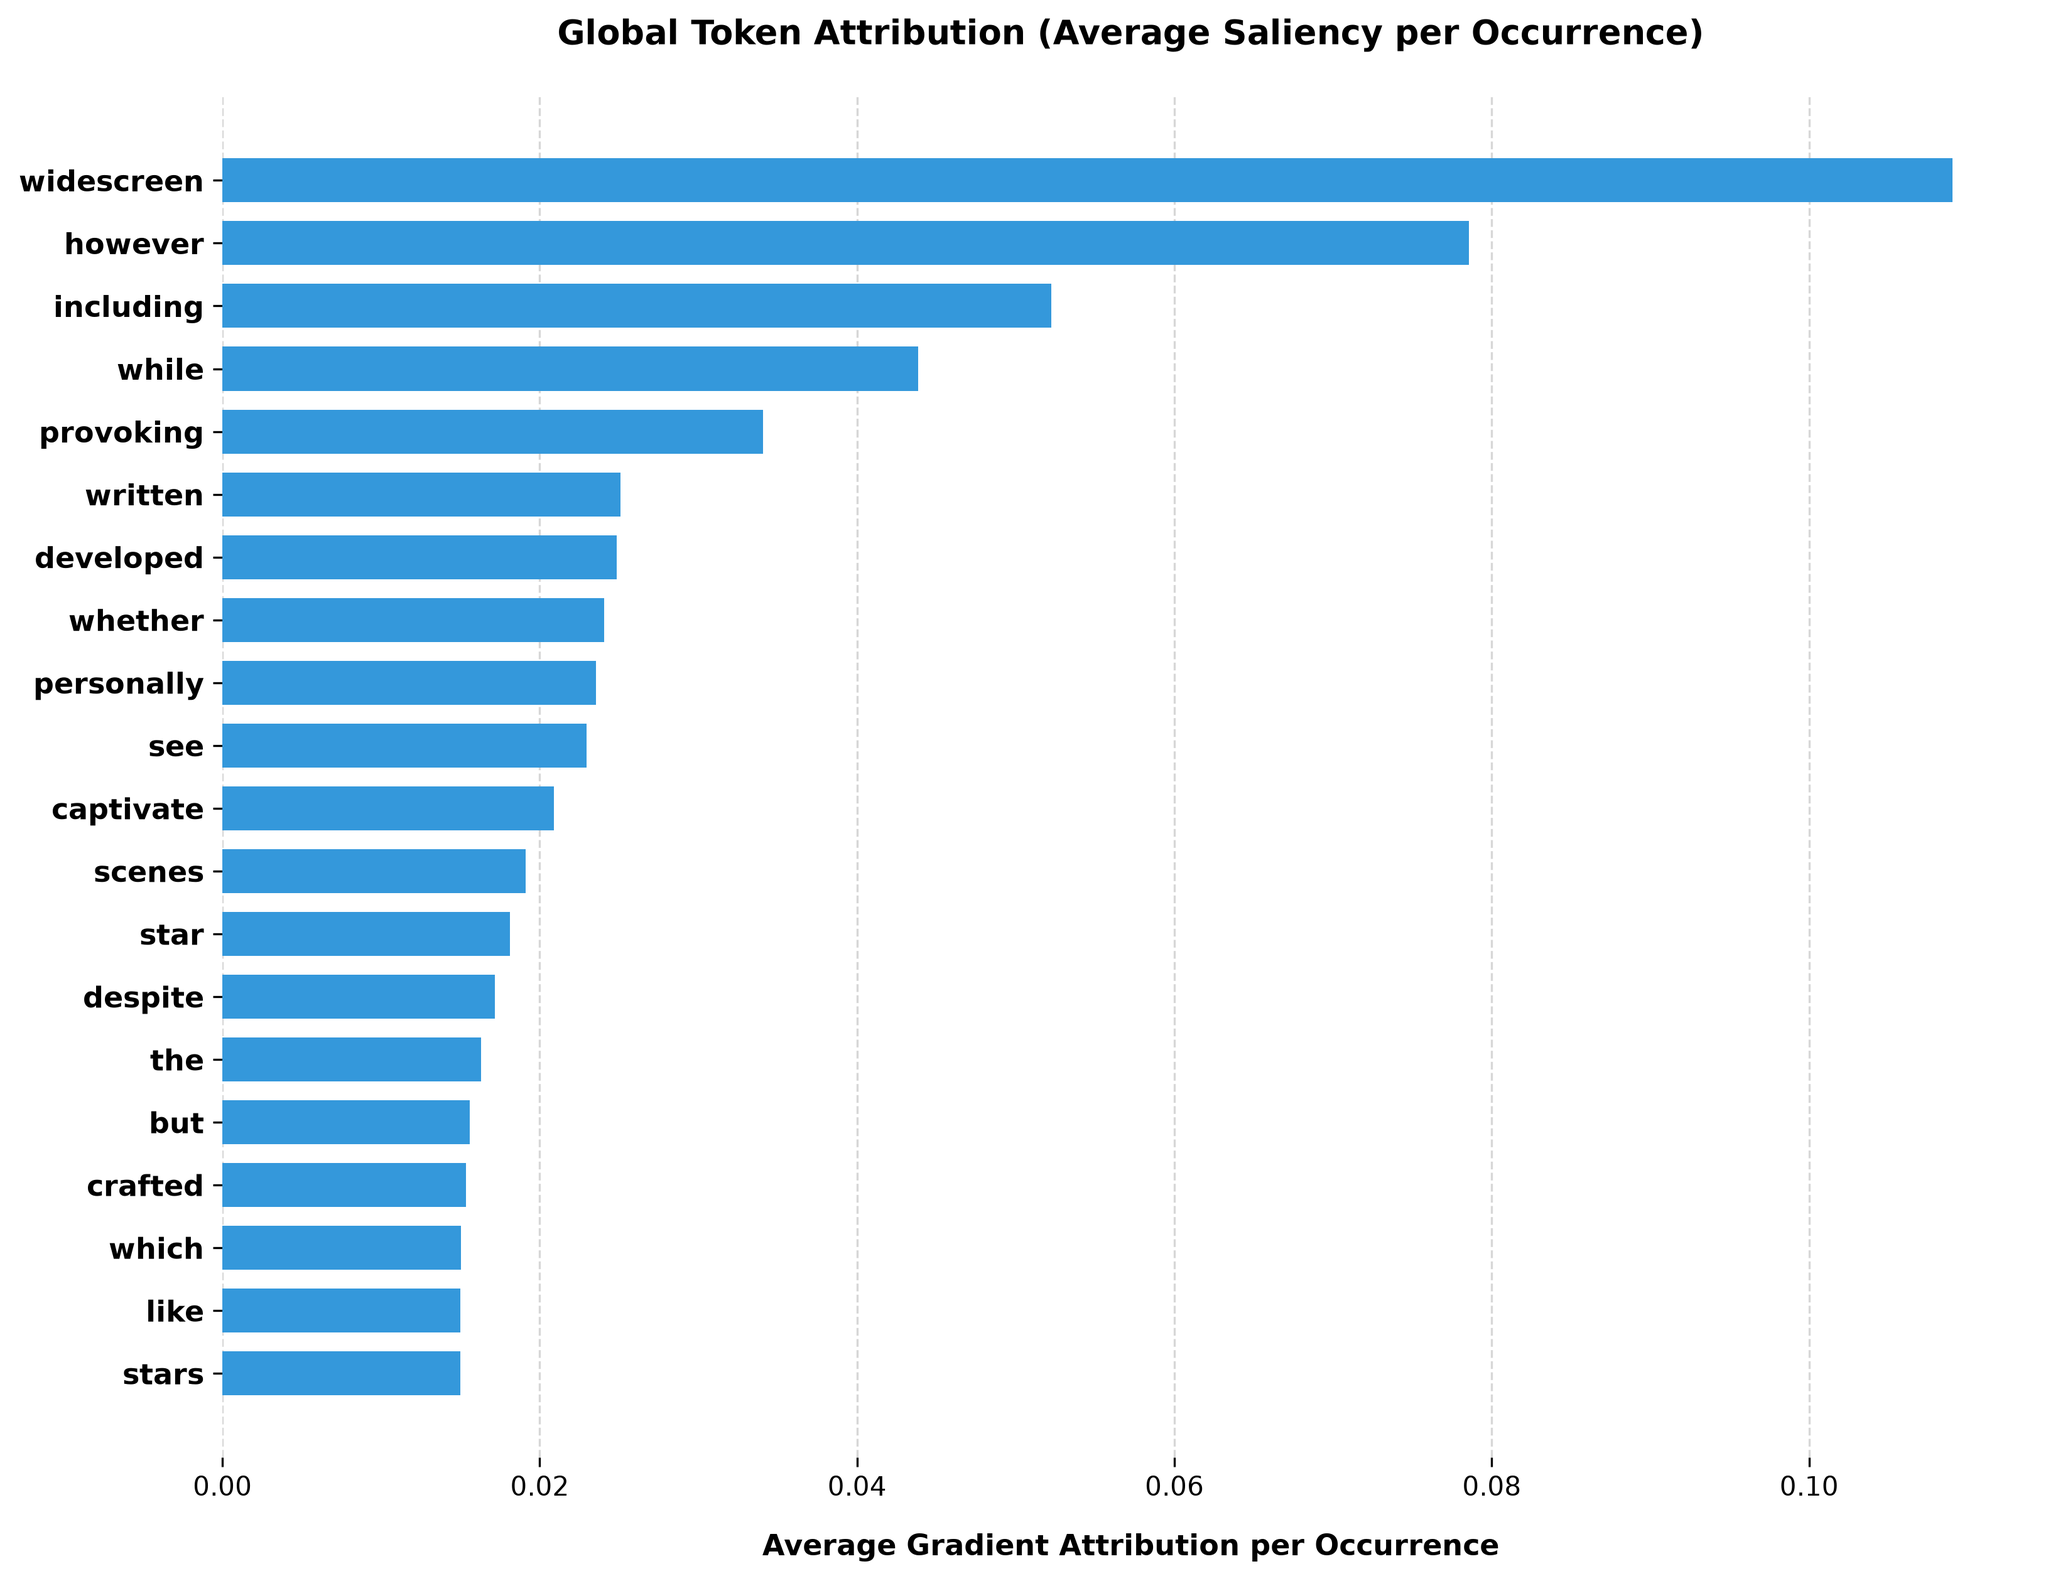
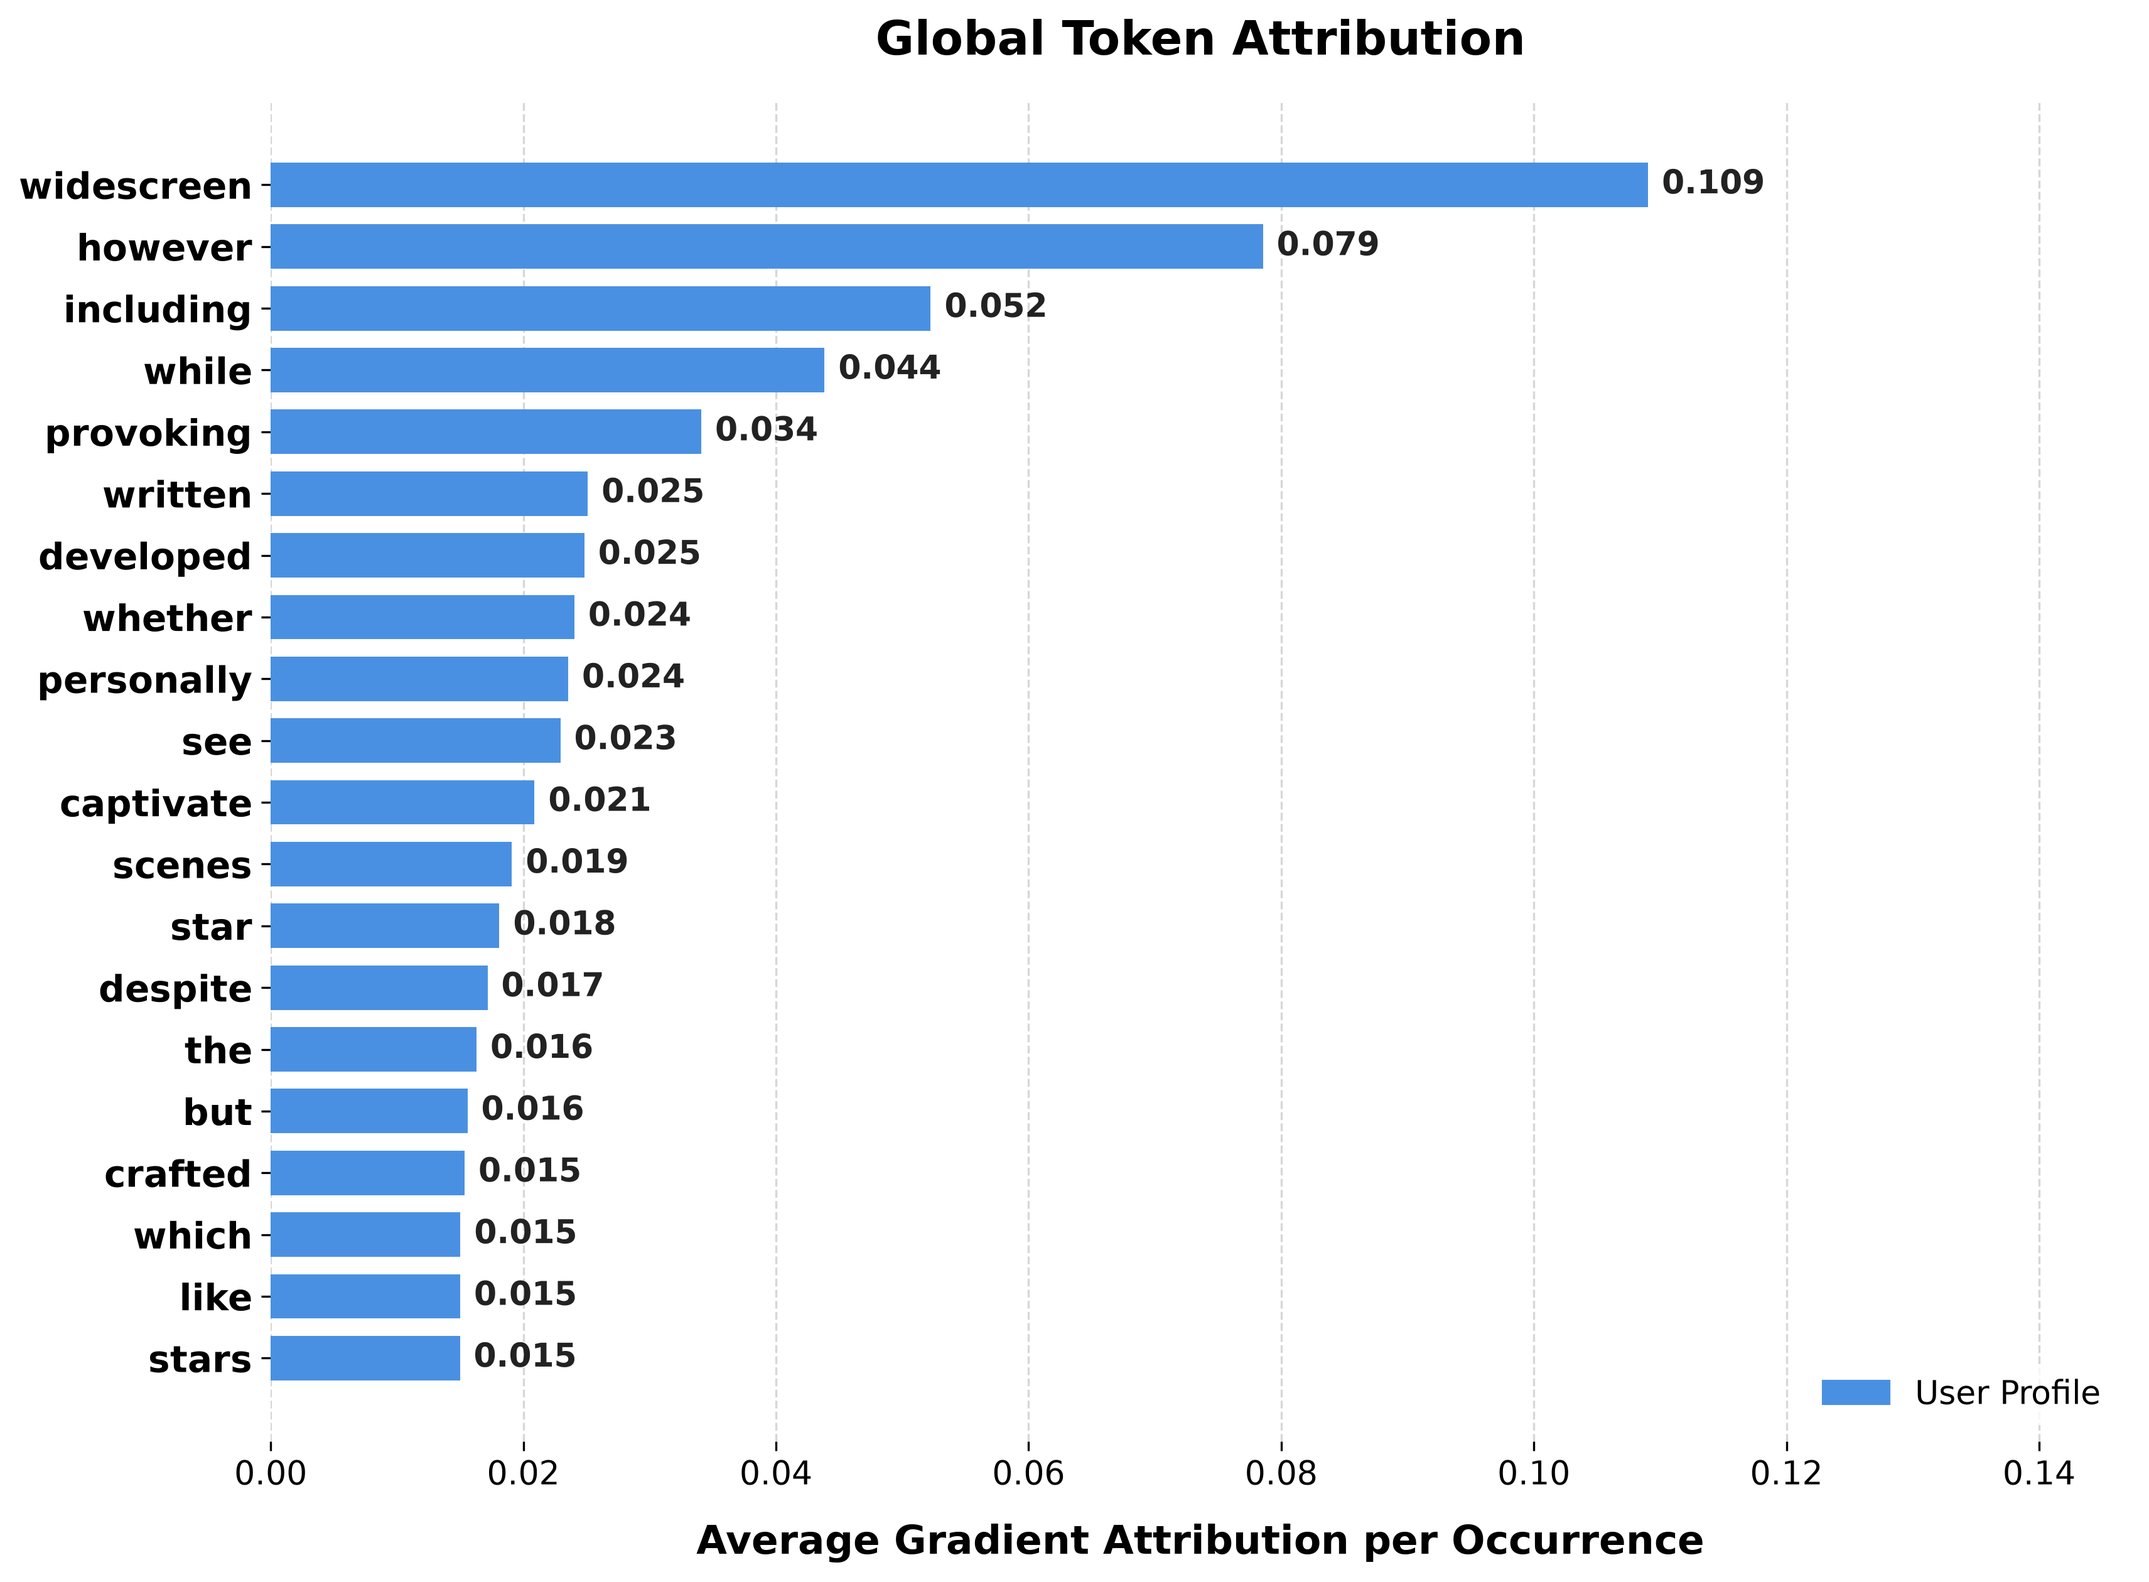
improve mechanistic interpretability plots and make more readable

diff --git a/user_profile_interpretability.py b/user_profile_interpretability.py
@@ -522,7 +522,7 @@ def plot_umap(
                         alpha=0.95,
                         lw=1.3
                     ),
-                    fontsize=8.5,
+                    fontsize=11.5,
                     fontweight="bold",
                     color="#2C3E50",
                     ha="center",
@@ -540,7 +540,7 @@ def plot_umap(
             edgecolors='none'
         )
         
-    ax.set_title("Semantic Mapping of User Profile Embeddings", fontsize=14, pad=20, fontweight="bold")
+    ax.set_title("Semantic Mapping of User Profile Embeddings", fontsize=18, pad=22, fontweight="bold")
     
     plt.tight_layout()
     plt.savefig(out_path, dpi=300, bbox_inches='tight')
@@ -868,6 +868,8 @@ def compute_global_attribution(
 
 def plot_global_attribution(word_avg_attrs: dict, word_categories: dict, out_path: str = "img/global_profile_attribution.png"):
     """Plots the top 20 user profile words by global average gradient attribution, colored by category."""
+    import matplotlib.patches as mpatches
+
     if not word_avg_attrs:
         print("Warning: No word attributions computed. Skipping global plot.")
         return
@@ -879,20 +881,25 @@ def plot_global_attribution(word_avg_attrs: dict, word_categories: dict, out_pat
     avg_attrs = [w[1] for w in top_20]
     categories = [word_categories[w[0]] for w in top_20]
     
-    # Premium colors: Blue for User Profile, Green for Item Title, Purple for Template
+    # Consistent color palette matching token-level saliency plot
     colors_map = {
-        "User Profile": "#3498DB",
-        "Item Title": "#2ECC71",
-        "Template": "#9B59B6"
+        "User Profile": "#4A90E2",
+        "Item Title": "#E25A5A",
+        "Template": "#A0A0A0"
     }
     bar_colors = [colors_map.get(cat, "#7F8C8D") for cat in categories]
     
-    fig, ax = plt.subplots(figsize=(11, 8.5))
+    # Twin figure size (11.5 x 8.5 in) standardized for side-by-side LaTeX minipage alignment
+    fig, ax = plt.subplots(figsize=(11.5, 8.5))
     
-    bars = ax.barh(np.arange(len(words)), avg_attrs, color=bar_colors, edgecolor='none', height=0.7)
+    bars = ax.barh(np.arange(len(words)), avg_attrs, color=bar_colors, edgecolor='none', height=0.72)
     ax.set_yticks(np.arange(len(words)))
-    ax.set_yticklabels(words, fontsize=11, fontweight="semibold")
+    ax.set_yticklabels(words, fontsize=14, fontweight="bold")
+    ax.tick_params(axis='x', labelsize=12.5)
     ax.invert_yaxis()  # Put highest average attribution at the top
+    
+    # Reserve right-side whitespace so legend and numbers fit cleanly
+    ax.set_xlim(0, max(avg_attrs) * 1.35)
     
     ax.spines['top'].set_visible(False)
     ax.spines['right'].set_visible(False)
@@ -901,8 +908,18 @@ def plot_global_attribution(word_avg_attrs: dict, word_categories: dict, out_pat
     ax.xaxis.grid(True, linestyle='--', alpha=0.5)
     ax.set_axisbelow(True)
     
-    ax.set_xlabel("Average Gradient Attribution per Occurrence", fontsize=11, fontweight="semibold", labelpad=12)
-    ax.set_title("Global Token Attribution (Average Saliency per Occurrence)", fontsize=13, pad=20, fontweight='bold')
+    for bar in bars:
+        width = bar.get_width()
+        ax.text(width + 0.01 * max(avg_attrs), bar.get_y() + bar.get_height()/2, f"{width:.3f}", 
+                va='center', ha='left', fontsize=12.5, fontweight='bold', color='#222222')
+    
+    ax.set_xlabel("Average Gradient Attribution per Occurrence", fontsize=15, fontweight="bold", labelpad=12)
+    ax.set_title("Global Token Attribution", fontsize=18, pad=18, fontweight='bold')
+    
+    present_cats = [cat for cat in colors_map.keys() if cat in categories]
+    patches = [mpatches.Patch(color=colors_map[k], label=k) for k in present_cats]
+    if patches:
+        ax.legend(handles=patches, loc='lower right', frameon=True, facecolor='white', edgecolor='none', fontsize=12.5)
     
     plt.tight_layout()
     plt.savefig(out_path, dpi=300, bbox_inches='tight')
@@ -969,7 +986,7 @@ def run_perturbation_study(
     proj_perturbed_weak = centroids[action_idx] if action_idx in centroids else proj_both[1]
     proj_perturbed_strong = centroids[crime_idx] if crime_idx in centroids else proj_both[2]
 
-    fig, ax = plt.subplots(figsize=(12.5, 6.2))
+    fig, ax = plt.subplots(figsize=(14, 7.2))
     
     # Hide all axis borders and labels
     ax.spines['top'].set_visible(False)
@@ -1004,15 +1021,15 @@ def run_perturbation_study(
                 theme_label = cluster_themes[i].split("\n")[-1]
                 color = cluster_colors[i % len(cluster_colors)]
                 legend_elements.append(
-                    Line2D([0], [0], marker='o', color='w', label=theme_label, markerfacecolor=color, markersize=7)
+                    Line2D([0], [0], marker='o', color='w', label=theme_label, markerfacecolor=color, markersize=8)
                 )
             ax.legend(
                 handles=legend_elements, 
                 title="Representation Taste Clusters", 
-                title_fontsize=8.5,
+                title_fontsize=11.5,
                 ncols=2,
                 loc="upper right", 
-                fontsize=7.5, 
+                fontsize=10.5, 
                 framealpha=0.95, 
                 facecolor="white",
                 edgecolor="#BDC3C7",
@@ -1051,7 +1068,7 @@ def run_perturbation_study(
         [probe_line_p1[1], probe_line_p2[1]], 
         color="#34495E", 
         linestyle="--", 
-        linewidth=2.0, 
+        linewidth=2.2, 
         alpha=0.75,
         zorder=5,
         label="Linear Probe Boundary"
@@ -1064,7 +1081,7 @@ def run_perturbation_study(
     ax.text(
         p_bottom[0] + 0.15, p_bottom[1] + 0.1,
         "Linear Probe Boundary:\n$P(\\mathrm{Crime})$ vs $P(\\mathrm{Romance})$",
-        fontsize=8.0,
+        fontsize=11.5,
         fontweight="bold",
         fontstyle="italic",
         color="#2C3E50",
@@ -1079,7 +1096,7 @@ def run_perturbation_study(
         '', 
         xy=(proj_perturbed_weak[0], proj_perturbed_weak[1]), 
         xytext=(proj_baseline[0], proj_baseline[1]),
-        arrowprops=dict(arrowstyle="-|>", color="#D35400", lw=2.8, mutation_scale=16),
+        arrowprops=dict(arrowstyle="-|>", color="#D35400", lw=3.2, mutation_scale=18),
         zorder=6
     )
     
@@ -1087,7 +1104,7 @@ def run_perturbation_study(
         '', 
         xy=(proj_perturbed_strong[0], proj_perturbed_strong[1]), 
         xytext=(proj_perturbed_weak[0], proj_perturbed_weak[1]),
-        arrowprops=dict(arrowstyle="-|>", color="#7D3C98", lw=3.0, linestyle="--", mutation_scale=18),
+        arrowprops=dict(arrowstyle="-|>", color="#7D3C98", lw=3.5, linestyle="--", mutation_scale=20),
         zorder=6
     )
 
@@ -1100,12 +1117,12 @@ def run_perturbation_study(
     ax.text(
         badge1_pos[0], badge1_pos[1],
         f"+Action Context\n($\\Delta z_1 = {emb_dist_1:.2f}$)",
-        fontsize=8.0,
+        fontsize=11.0,
         fontweight="bold",
         color="#BA4A00",
         ha="center",
         va="center",
-        bbox=dict(boxstyle="round,pad=0.3", facecolor="#FBEEE6", edgecolor="#E67E22", alpha=0.95, lw=1.1),
+        bbox=dict(boxstyle="round,pad=0.35", facecolor="#FBEEE6", edgecolor="#E67E22", alpha=0.95, lw=1.2),
         zorder=8
     )
 
@@ -1117,19 +1134,19 @@ def run_perturbation_study(
     ax.text(
         badge2_pos[0], badge2_pos[1],
         f"+Crime/Mystery Shift\n($\\Delta z_2 = {emb_dist_2:.2f}$)",
-        fontsize=8.0,
+        fontsize=11.0,
         fontweight="bold",
         color="#6C3483",
         ha="center",
         va="center",
-        bbox=dict(boxstyle="round,pad=0.3", facecolor="#F5EEF8", edgecolor="#8E44AD", alpha=0.95, lw=1.1),
+        bbox=dict(boxstyle="round,pad=0.35", facecolor="#F5EEF8", edgecolor="#8E44AD", alpha=0.95, lw=1.2),
         zorder=8
     )
 
     # --- 3. Plot Nodes (Baseline, Weak, Strong) ---
-    ax.scatter([proj_baseline[0]], [proj_baseline[1]], color='#F1C40F', marker='*', s=350, edgecolor='black', linewidth=1.6, zorder=7)
-    ax.scatter([proj_perturbed_weak[0]], [proj_perturbed_weak[1]], color='#E67E22', marker='*', s=350, edgecolor='black', linewidth=1.6, zorder=7)
-    ax.scatter([proj_perturbed_strong[0]], [proj_perturbed_strong[1]], color='#8E44AD', marker='*', s=330, edgecolor='black', linewidth=1.6, zorder=7)
+    ax.scatter([proj_baseline[0]], [proj_baseline[1]], color='#F1C40F', marker='*', s=400, edgecolor='black', linewidth=1.8, zorder=7)
+    ax.scatter([proj_perturbed_weak[0]], [proj_perturbed_weak[1]], color='#E67E22', marker='*', s=400, edgecolor='black', linewidth=1.8, zorder=7)
+    ax.scatter([proj_perturbed_strong[0]], [proj_perturbed_strong[1]], color='#8E44AD', marker='*', s=380, edgecolor='black', linewidth=1.8, zorder=7)
 
     # Node labels — connectionstyle annotations with tight offsets
     node_labels = [
@@ -1146,13 +1163,13 @@ def run_perturbation_study(
             label,
             xy=(pos[0], pos[1]),
             xytext=(pos[0] + dx, pos[1] + dy),
-            fontsize=8.5,
+            fontsize=11.5,
             fontweight='bold',
             color=txtcolor,
             ha='center',
             va='center',
-            bbox=dict(boxstyle="round,pad=0.3", facecolor=facecolor, edgecolor=edgecolor, alpha=0.95, lw=1.1),
-            arrowprops=dict(arrowstyle="-", color=edgecolor, lw=1.0, alpha=0.6),
+            bbox=dict(boxstyle="round,pad=0.35", facecolor=facecolor, edgecolor=edgecolor, alpha=0.95, lw=1.2),
+            arrowprops=dict(arrowstyle="-", color=edgecolor, lw=1.2, alpha=0.6),
             zorder=8
         )
 
@@ -1164,7 +1181,7 @@ def run_perturbation_study(
     ax.set_xlim(x_min - x_pad, x_max + x_pad)
     ax.set_ylim(y_min - y_pad, y_max + y_pad)
 
-    ax.set_title("Activation Steering & Concept Boundary Trajectory in Profile Representation Space", fontsize=13, pad=15, fontweight="bold")
+    ax.set_title("Activation Steering & Concept Boundary Trajectory in Profile Representation Space", fontsize=18, pad=22, fontweight="bold")
     
     plt.tight_layout()
     plt.savefig(out_path, dpi=300, bbox_inches='tight')
@@ -1383,10 +1400,11 @@ def interpret_user_profile_contribution(
     for k, v in percentages.items():
         print(f"  - {k}: {v:.1f}%")
         
-    # Plot top 20 tokens by attribution
-    fig, ax = plt.subplots(figsize=(10, 8))
-    sorted_indices = np.argsort(attr)
-    top_indices = sorted_indices[-20:]
+    # Twin figure size (11.5 x 8.5 in) standardized for side-by-side LaTeX minipage alignment
+    fig, ax = plt.subplots(figsize=(11.5, 8.5))
+    
+    sorted_indices = np.argsort(attr)[::-1]
+    top_indices = sorted_indices[:20]
     
     top_tokens = [tokens[idx] for idx in top_indices]
     top_attr = [attr[idx] for idx in top_indices]
@@ -1399,11 +1417,15 @@ def interpret_user_profile_contribution(
     }
     bar_colors = [colors_map[c] for c in top_cats]
     
-    bars = ax.barh(np.arange(len(top_tokens)), top_attr, color=bar_colors, edgecolor='none', height=0.75)
+    bars = ax.barh(np.arange(len(top_tokens)), top_attr, color=bar_colors, edgecolor='none', height=0.72)
     ax.set_yticks(np.arange(len(top_tokens)))
-    ax.set_yticklabels([repr(t) for t in top_tokens], fontsize=10, family='monospace')
+    ax.set_yticklabels([repr(t) for t in top_tokens], fontsize=14, fontweight="bold", family='monospace')
+    ax.tick_params(axis='x', labelsize=12.5)
+    ax.invert_yaxis()  # Highest attribution at top
     
-    # Clean up spines and style
+    # Reserve right 42% of X-axis whitespace so wide Case Study Card & Legend fit comfortably
+    ax.set_xlim(0, max(top_attr) * 1.72)
+    
     ax.spines['top'].set_visible(False)
     ax.spines['right'].set_visible(False)
     ax.spines['bottom'].set_visible(False)
@@ -1414,23 +1436,28 @@ def interpret_user_profile_contribution(
     for bar in bars:
         width = bar.get_width()
         ax.text(width + 0.01 * max(top_attr), bar.get_y() + bar.get_height()/2, f"{width:.3f}", 
-                va='center', ha='left', fontsize=9, color='#333333')
+                va='center', ha='left', fontsize=12.5, fontweight="bold", color='#222222')
                 
-    ax.set_title("Token-level Saliency (Gradient Attribution) for Rating Prediction", fontsize=13, pad=20, fontweight='bold')
-    ax.set_xlabel("Attribution Score (L2 Norm of Gradient)", fontsize=11, labelpad=10)
+    ax.set_title("Token-level Gradient Saliency", fontsize=18, pad=18, fontweight='bold')
+    ax.set_xlabel("Attribution Score ($L_2$ Norm of Gradient)", fontsize=15, fontweight="bold", labelpad=12)
     
+    # 1. Legend at lower-right
     patches = [mpatches.Patch(color=v, label=f"{k} ({percentages[k]:.1f}%)") for k, v in colors_map.items()]
-    ax.legend(handles=patches, loc='lower right', frameon=True, facecolor='white', edgecolor='none')
+    ax.legend(handles=patches, loc='lower right', frameon=True, facecolor='white', edgecolor='none', fontsize=12.5)
     
-    wrapped_profile = textwrap.fill(profile, width=60)
-    wrapped_item = textwrap.fill(item_title, width=60)
+    # 2. Wide, high-legibility Case Study Card in upper-right reserved whitespace
+    wrapped_profile = textwrap.fill(profile, width=42)
+    wrapped_item = textwrap.fill(item_title, width=42)
     text_block = (
-        f"Case Study details:\n"
-        f"Profile: '{wrapped_profile}'\n"
-        f"Item: '{wrapped_item}'"
+        "CASE STUDY DETAILS\n"
+        "───────────────────────────────────────────\n"
+        "▶ USER PROFILE:\n"
+        f"\"{wrapped_profile}\"\n\n"
+        "▶ TARGET ITEM TITLE:\n"
+        f"\"{wrapped_item}\""
     )
-    ax.text(0.02, 0.95, text_block, transform=ax.transAxes, fontsize=9, va='top', ha='left',
-            bbox=dict(boxstyle='round,pad=0.5', facecolor='#F8F9FA', edgecolor='#E0E0E0', alpha=0.9))
+    ax.text(0.98, 0.38, text_block, transform=ax.transAxes, fontsize=12.5, fontweight='normal', va='bottom', ha='right',
+            bbox=dict(boxstyle='round,pad=0.55', facecolor='#FFFFFF', edgecolor='#B0B0B0', alpha=0.98, lw=1.2), zorder=10)
             
     plt.tight_layout()
     plt.savefig(out_path, dpi=300, bbox_inches='tight')
